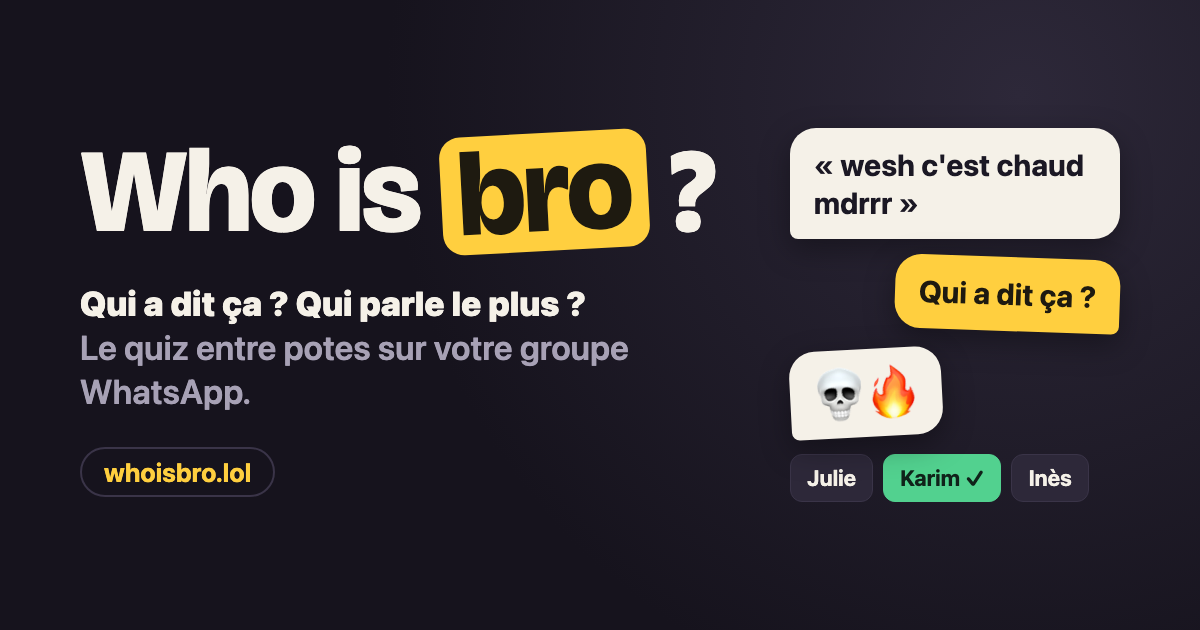
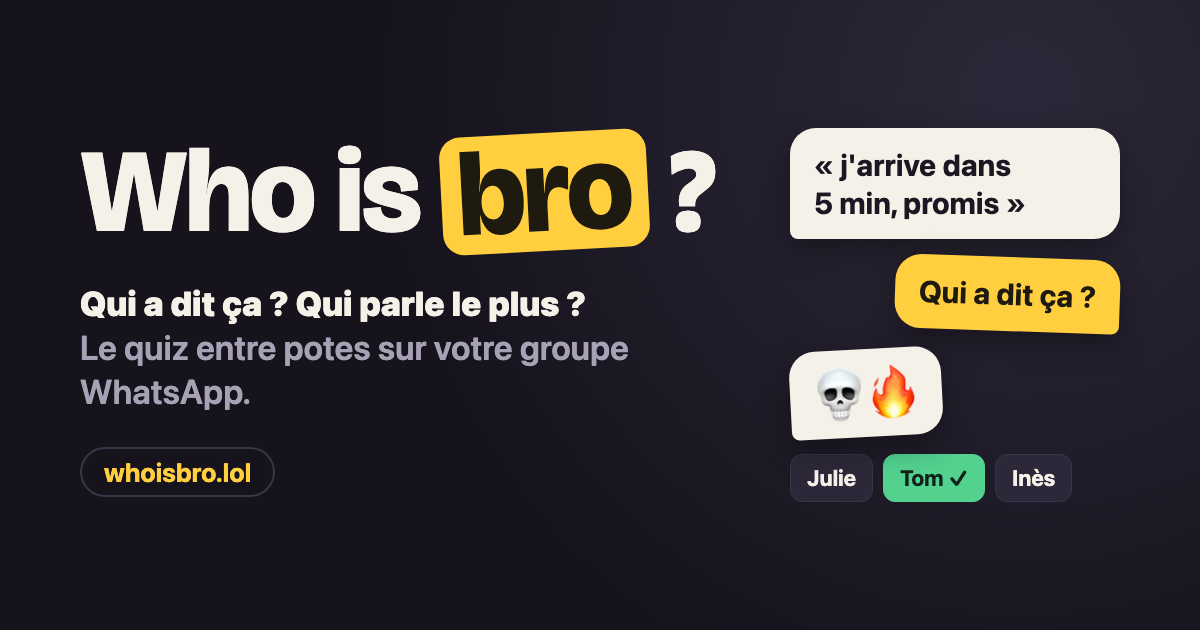
Image de partage : phrase et prénoms sans cliché

Changed region(s): [[0.6783, 0.2413, 0.925, 0.3619], [0.74, 0.7238, 0.8942, 0.8143]]

diff --git a/tools/og.html b/tools/og.html
@@ -35,10 +35,10 @@
     <div class="url">whoisbro.lol</div>
   </div>
   <div class="chat">
-    <div class="bubble">« wesh c'est chaud mdrrr »</div>
+    <div class="bubble">«&nbsp;j'arrive dans 5&nbsp;min, promis&nbsp;»</div>
     <div class="bubble">Qui a dit ça&nbsp;?</div>
     <div class="bubble">💀🔥</div>
-    <div class="votes"><span>Julie</span><span class="on">Karim ✓</span><span>Inès</span></div>
+    <div class="votes"><span>Julie</span><span class="on">Tom ✓</span><span>Inès</span></div>
   </div>
 </body>
 </html>
